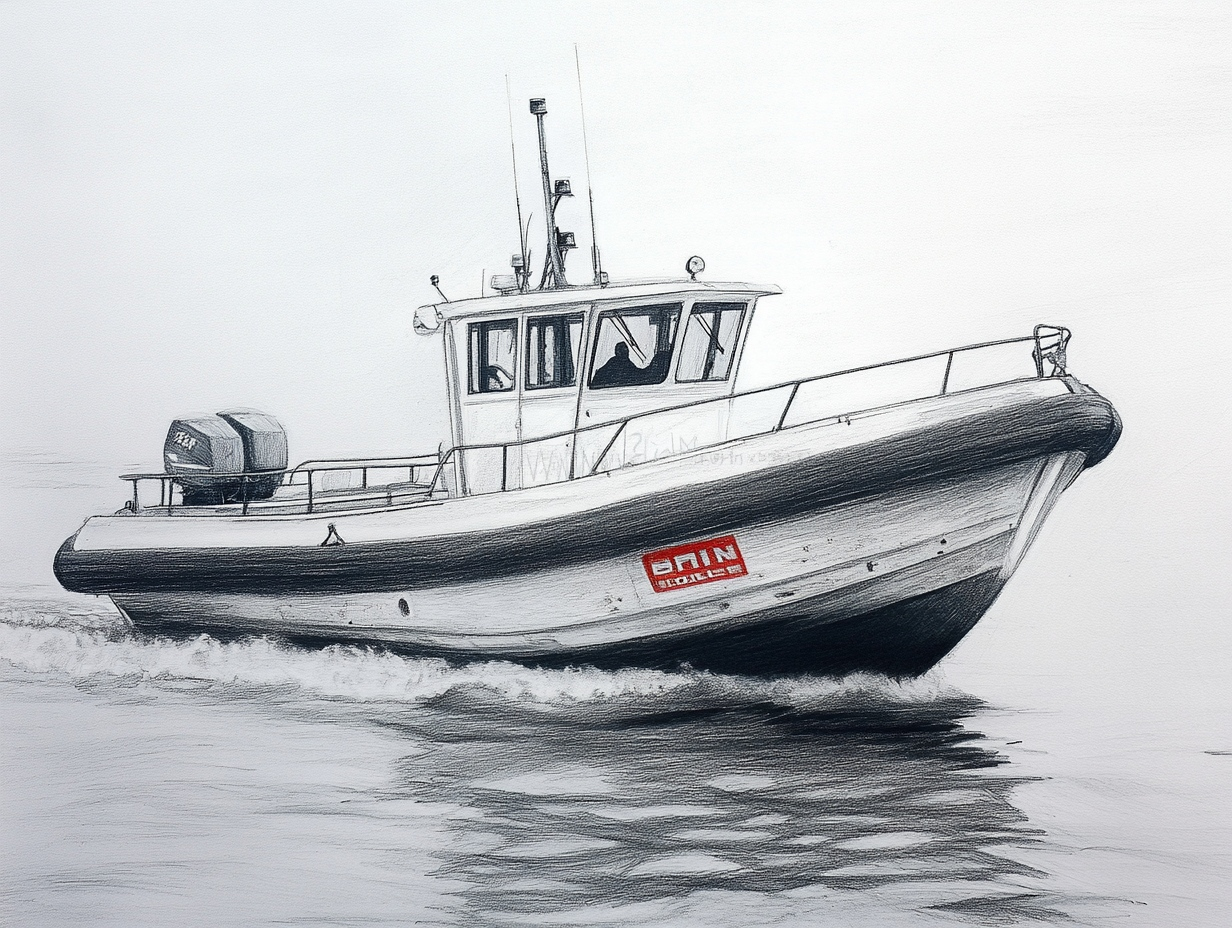
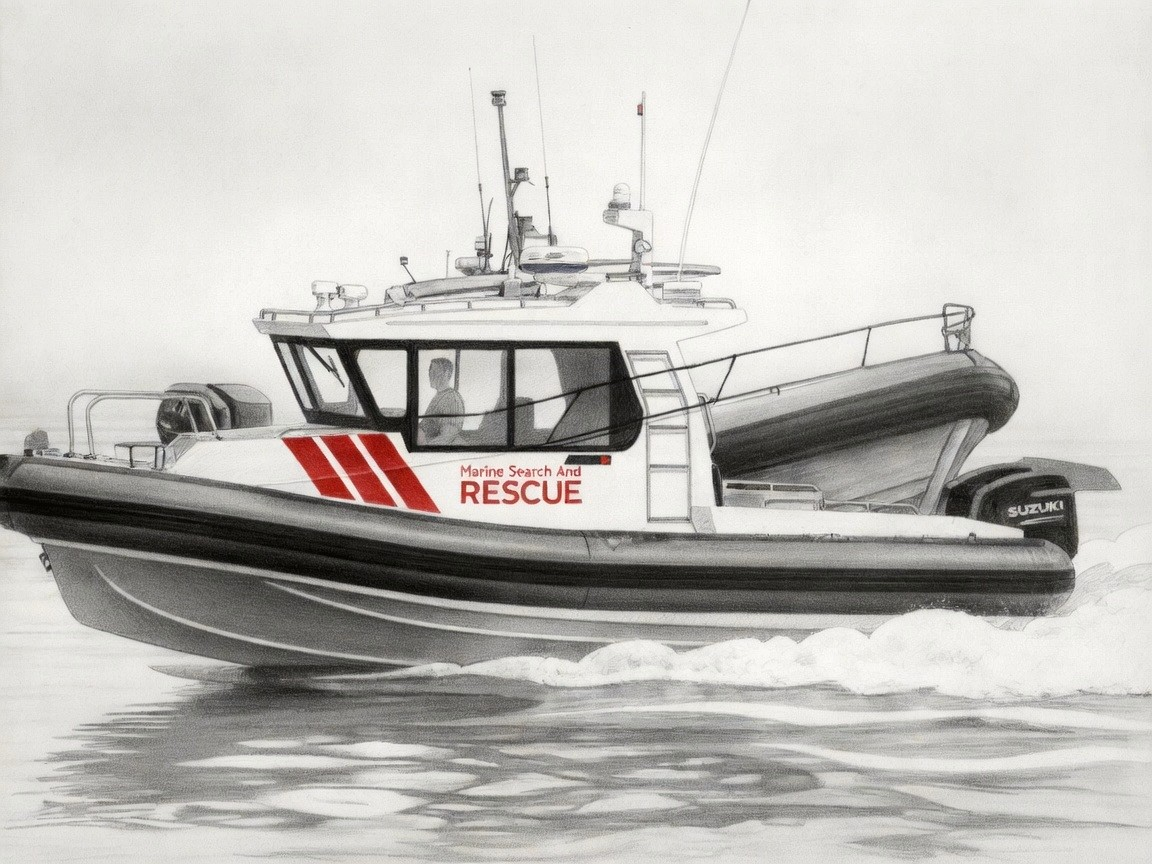
Improve hero boat and vision sketch artwork
Transparent high-res Naiad cutout for animation; refined pencil
rescue-boat sketch with clean RESCUE markings.

diff --git a/index.html b/index.html
@@ -24,7 +24,7 @@
   <link rel="preconnect" href="https://fonts.gstatic.com" crossorigin>
   <link href="https://fonts.googleapis.com/css2?family=Outfit:wght@500;600;700;800&family=Source+Sans+3:wght@400;500;600;700&display=swap" rel="stylesheet">
   <link rel="stylesheet" href="https://cdnjs.cloudflare.com/ajax/libs/font-awesome/6.5.2/css/all.min.css">
-  <link rel="stylesheet" href="styles.css?v=3">
+  <link rel="stylesheet" href="styles.css?v=4">
 </head>
 <body class="dark">
 
@@ -92,10 +92,10 @@
         <div class="boat-bob">
           <div class="boat-wake"></div>
           <img
-            src="images/Naiad-1.png"
-            alt=""
-            width="948"
-            height="662"
+            src="images/Naiad-1.png?v=4"
+            alt="Marine search and rescue vessel underway"
+            width="1600"
+            height="925"
             decoding="async"
             fetchpriority="high"
           >
@@ -157,10 +157,10 @@
         <div class="vision-aside">
           <div class="vision-art">
             <img
-              src="images/boat-sketch.jpg"
-              alt="Pencil illustration of a marine rescue vessel underway"
-              width="1232"
-              height="928"
+              src="images/boat-sketch.jpg?v=4"
+              alt="Pencil illustration of a Mallacoota marine rescue vessel underway"
+              width="1152"
+              height="864"
               loading="lazy"
             >
           </div>
@@ -500,6 +500,6 @@
     </div>
   </div>
 
-  <script src="main.js?v=3"></script>
+  <script src="main.js?v=4"></script>
 </body>
 </html>

diff --git a/styles.css b/styles.css
@@ -275,11 +275,11 @@ h1, h2, h3, h4 {
 .boat-bob {
   position: absolute;
   left: 50%;
-  bottom: 6%;
-  width: min(48vw, 380px);
+  bottom: 4%;
+  width: min(52vw, 420px);
   transform: translateX(-50%);
   animation: boat-bob 3.2s ease-in-out infinite;
-  filter: drop-shadow(0 18px 28px rgba(0, 0, 0, 0.45));
+  filter: drop-shadow(0 14px 22px rgba(0, 0, 0, 0.4));
 }
 
 .boat-bob img {
@@ -565,14 +565,16 @@ h1, h2, h3, h4 {
   overflow: hidden;
   border: 1px solid var(--glass-border);
   flex: 1;
-  min-height: 200px;
-  background: var(--navy);
+  min-height: 220px;
+  background: linear-gradient(160deg, #e8eef2 0%, #cfd8e0 100%);
+  box-shadow: inset 0 0 0 1px rgba(255, 255, 255, 0.35);
 }
 .vision-art img {
   width: 100%;
   height: 100%;
   object-fit: cover;
-  filter: grayscale(15%) contrast(1.05);
+  object-position: center 45%;
+  filter: contrast(1.04) saturate(1.05);
 }
 .status-pills {
   display: flex;